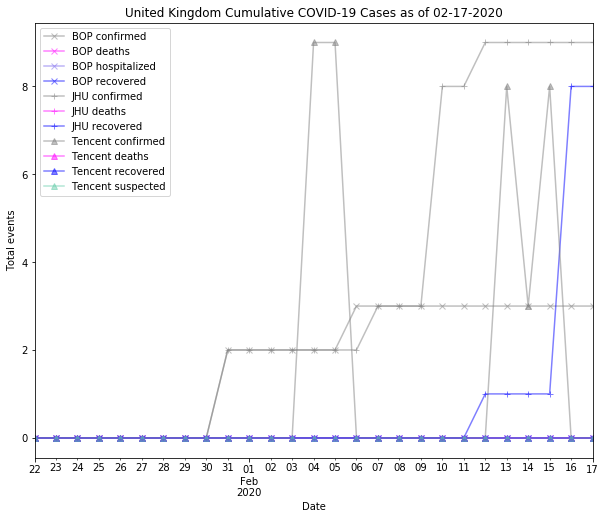
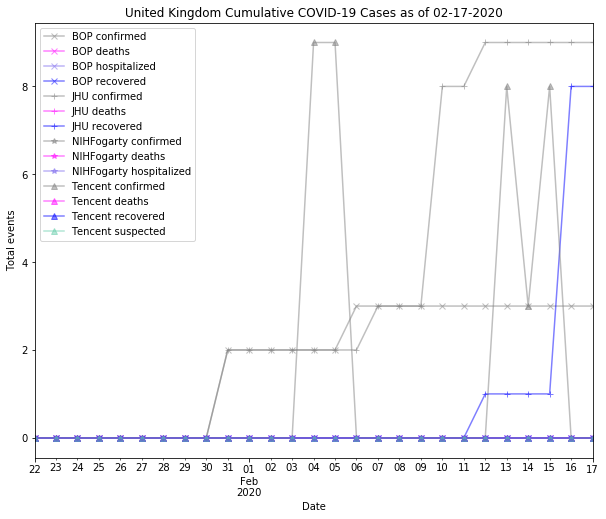
removed cluster figs when country data absent

Changed region(s): [[0.0594, 0.2466, 0.3267, 0.4624]]

diff --git a/country_reports/United_Kingdom_report.md b/country_reports/United_Kingdom_report.md
@@ -14,11 +14,11 @@
 |                           | BOP              | JHU                         | Tencent                       |
 |---------------------------|------------------|-----------------------------|-------------------------------|
 | First update logged       | 01/12/20         | 01/22/20                    | 02/04/20                      |
-| Last update logged        | 02/06/20         | 02/16/20                    | 02/17/20                      |
+| Last update logged        | 02/06/20         | 02/17/20                    | 02/17/20                      |
 | Method                    | Public line list | Cases by day & country list | Daily cases in country scrape |
 | First known case          | 01/31/20         | 01/22/20                    | 02/06/20                      |
 | Total confirmed cases     | 3                | 9                           | 0                             |
-| New cases since yesterday |                  |                             | 0                             |
+| New cases since yesterday |                  | 0                           | 0                             |
 | Total suspected           |                  |                             | 0                             |
 | Total hospitalized        | 0                |                             |                               |
 | Total recovered           | 0                | 8                           | 0                             |
@@ -45,7 +45,7 @@ Data sources: BOP, JHU, Tencent
 
 ### Observed case clusters:
 #### Fig 3:
-![United Kingdom cases](../cluster_analysis/United_Kingdom_imported_cases.png)
+![United Kingdom cases](../cluster_analysis/United_Kingdom_imported_cases_BOP.png)
 
 
 
@@ -55,4 +55,5 @@ Data source: BOP
 ### Data sources:
 * **BOP:** https://github.com/beoutbreakprepared/nCoV2019
 * **JHU:** https://github.com/CSSEGISandData/COVID-19/issues
+* **NIH-Fogarty:** https://docs.google.com/spreadsheets/d/1jS24DjSPVWa4iuxuD4OAXrE3QeI8c9BC1hSlqr-NMiU/edit#gid=1187587451
 * **Tencent:** https://news.qq.com/zt2020/page/feiyan.htm

diff --git a/country_reports/UK_report.md b/country_reports/UK_report.md
@@ -24,7 +24,7 @@
 | Total recovered           | 8                           |                  | 0                             |
 | Total deaths              | 0                           | 0                | 0                             |
 
-Data sources: BOP, JHU, NIH-Fogarty,Tencent
+Data sources: JHU, NIH-Fogarty, Tencent
 
 
 ### Geographic dispersal:
@@ -40,7 +40,7 @@ Data sources: BOP, JHU, NIH-Fogarty,Tencent
 |  2 | NIH      | York, UK   |           2 |
 |  0 | JHU      | UK         |           9 |
 
-Data sources: BOP, JHU, NIH-Fogarty, Tencent
+Data sources: JHU, NIH-Fogarty, Tencent
 
 
 ### Observed case clusters:
@@ -48,12 +48,8 @@ Data sources: BOP, JHU, NIH-Fogarty, Tencent
 ![UK cases](../cluster_analysis/UK_imported_cases_NIHFogarty.png)
 
 
-#### Fig 4:
-![UK cases](../cluster_analysis/UK_imported_cases_BOP.png)
 
-
-
-Data source: BOP
+Data source: NIH-Fogarty
 
 
 ### Data sources:

diff --git a/country_reports/United_States_report.md b/country_reports/United_States_report.md
@@ -24,7 +24,7 @@
 | Total recovered           | 0                | 3                           |                  | 0                             |
 | Total deaths              | 0                | 0                           | 0                | 0                             |
 
-Data sources: BOP, JHU, NIH-Fogarty,Tencent
+Data sources: BOP, JHU, NIH-Fogarty, Tencent
 
 
 ### Geographic dispersal:
@@ -68,6 +68,10 @@ Data sources: BOP, JHU, NIH-Fogarty, Tencent
 ### Observed case clusters:
 #### Fig 3:
 ![United States cases](../cluster_analysis/United_States_imported_cases_NIHFogarty.png)
+
+
+
+Data source: NIH-Fogarty
 
 
 #### Fig 4:

diff --git a/country_reports/South_Korea_report.md b/country_reports/South_Korea_report.md
@@ -24,7 +24,7 @@
 | Total recovered           | 0                | 10                          |                  | 0                             |
 | Total deaths              | 0                | 0                           | 0                | 0                             |
 
-Data sources: BOP, JHU, NIH-Fogarty,Tencent
+Data sources: BOP, JHU, NIH-Fogarty, Tencent
 
 
 ### Geographic dispersal:
@@ -48,6 +48,10 @@ Data sources: BOP, JHU, NIH-Fogarty, Tencent
 ### Observed case clusters:
 #### Fig 3:
 ![South Korea cases](../cluster_analysis/South_Korea_imported_cases_NIHFogarty.png)
+
+
+
+Data source: NIH-Fogarty
 
 
 #### Fig 4:

diff --git a/country_reports/Sri_Lanka_report.md b/country_reports/Sri_Lanka_report.md
@@ -24,7 +24,7 @@
 | Total recovered           | 0                | 1                           |                  | 0                             |
 | Total deaths              | 0                | 0                           | 0                | 0                             |
 
-Data sources: BOP, JHU, NIH-Fogarty,Tencent
+Data sources: BOP, JHU, NIH-Fogarty, Tencent
 
 
 ### Geographic dispersal:
@@ -47,6 +47,10 @@ Data sources: BOP, JHU, NIH-Fogarty, Tencent
 ### Observed case clusters:
 #### Fig 3:
 ![Sri Lanka cases](../cluster_analysis/Sri_Lanka_imported_cases_NIHFogarty.png)
+
+
+
+Data source: NIH-Fogarty
 
 
 #### Fig 4:

diff --git a/country_reports/Thailand_report.md b/country_reports/Thailand_report.md
@@ -24,7 +24,7 @@
 | Total recovered           | 0                | 15                          |                  | 14                            |
 | Total deaths              | 0                | 0                           | 0                | 0                             |
 
-Data sources: BOP, JHU, NIH-Fogarty,Tencent
+Data sources: BOP, JHU, NIH-Fogarty, Tencent
 
 
 ### Geographic dispersal:
@@ -48,6 +48,10 @@ Data sources: BOP, JHU, NIH-Fogarty, Tencent
 ### Observed case clusters:
 #### Fig 3:
 ![Thailand cases](../cluster_analysis/Thailand_imported_cases_NIHFogarty.png)
+
+
+
+Data source: NIH-Fogarty
 
 
 #### Fig 4:

diff --git a/country_reports/Vietnam_report.md b/country_reports/Vietnam_report.md
@@ -24,7 +24,7 @@
 | Total recovered           | 0                | 7                           |                  | 0                             |
 | Total deaths              | 0                | 0                           | 0                | 0                             |
 
-Data sources: BOP, JHU, NIH-Fogarty,Tencent
+Data sources: BOP, JHU, NIH-Fogarty, Tencent
 
 
 ### Geographic dispersal:
@@ -57,6 +57,10 @@ Data sources: BOP, JHU, NIH-Fogarty, Tencent
 ### Observed case clusters:
 #### Fig 3:
 ![Vietnam cases](../cluster_analysis/Vietnam_imported_cases_NIHFogarty.png)
+
+
+
+Data source: NIH-Fogarty
 
 
 #### Fig 4:

diff --git a/country_reports/Sweden_report.md b/country_reports/Sweden_report.md
@@ -24,7 +24,7 @@
 | Total recovered           | 0                | 0                           |                  | 0                             |
 | Total deaths              | 0                | 0                           | 0                | 0                             |
 
-Data sources: BOP, JHU, NIH-Fogarty,Tencent
+Data sources: BOP, JHU, NIH-Fogarty, Tencent
 
 
 ### Geographic dispersal:
@@ -47,6 +47,10 @@ Data sources: BOP, JHU, NIH-Fogarty, Tencent
 ### Observed case clusters:
 #### Fig 3:
 ![Sweden cases](../cluster_analysis/Sweden_imported_cases_NIHFogarty.png)
+
+
+
+Data source: NIH-Fogarty
 
 
 #### Fig 4:

diff --git a/country_reports/Taiwan_report.md b/country_reports/Taiwan_report.md
@@ -24,7 +24,7 @@
 | Total recovered           | 0                | 2                           |                  | 2                             |
 | Total deaths              | 0                | 1                           | 0                | 1                             |
 
-Data sources: BOP, JHU, NIH-Fogarty,Tencent
+Data sources: BOP, JHU, NIH-Fogarty, Tencent
 
 
 ### Geographic dispersal:
@@ -46,6 +46,10 @@ Data sources: BOP, JHU, NIH-Fogarty, Tencent
 ### Observed case clusters:
 #### Fig 3:
 ![Taiwan cases](../cluster_analysis/Taiwan_imported_cases_NIHFogarty.png)
+
+
+
+Data source: NIH-Fogarty
 
 
 #### Fig 4:

diff --git a/country_reports/Spain_report.md b/country_reports/Spain_report.md
@@ -24,7 +24,7 @@
 | Total recovered           | 0                | 2                           |                  | 0                             |
 | Total deaths              | 0                | 0                           | 0                | 0                             |
 
-Data sources: BOP, JHU, NIH-Fogarty,Tencent
+Data sources: BOP, JHU, NIH-Fogarty, Tencent
 
 
 ### Geographic dispersal:
@@ -47,6 +47,10 @@ Data sources: BOP, JHU, NIH-Fogarty, Tencent
 ### Observed case clusters:
 #### Fig 3:
 ![Spain cases](../cluster_analysis/Spain_imported_cases_NIHFogarty.png)
+
+
+
+Data source: NIH-Fogarty
 
 
 #### Fig 4:

diff --git a/country_reports/UAE_report.md b/country_reports/UAE_report.md
@@ -24,7 +24,7 @@
 | Total recovered           | 0                | 4                           |                  | 0                             |
 | Total deaths              | 0                | 0                           | 0                | 0                             |
 
-Data sources: BOP, JHU, NIH-Fogarty,Tencent
+Data sources: BOP, JHU, NIH-Fogarty, Tencent
 
 
 ### Geographic dispersal:
@@ -47,6 +47,10 @@ Data sources: BOP, JHU, NIH-Fogarty, Tencent
 ### Observed case clusters:
 #### Fig 3:
 ![UAE cases](../cluster_analysis/UAE_imported_cases_NIHFogarty.png)
+
+
+
+Data source: NIH-Fogarty
 
 
 #### Fig 4:
